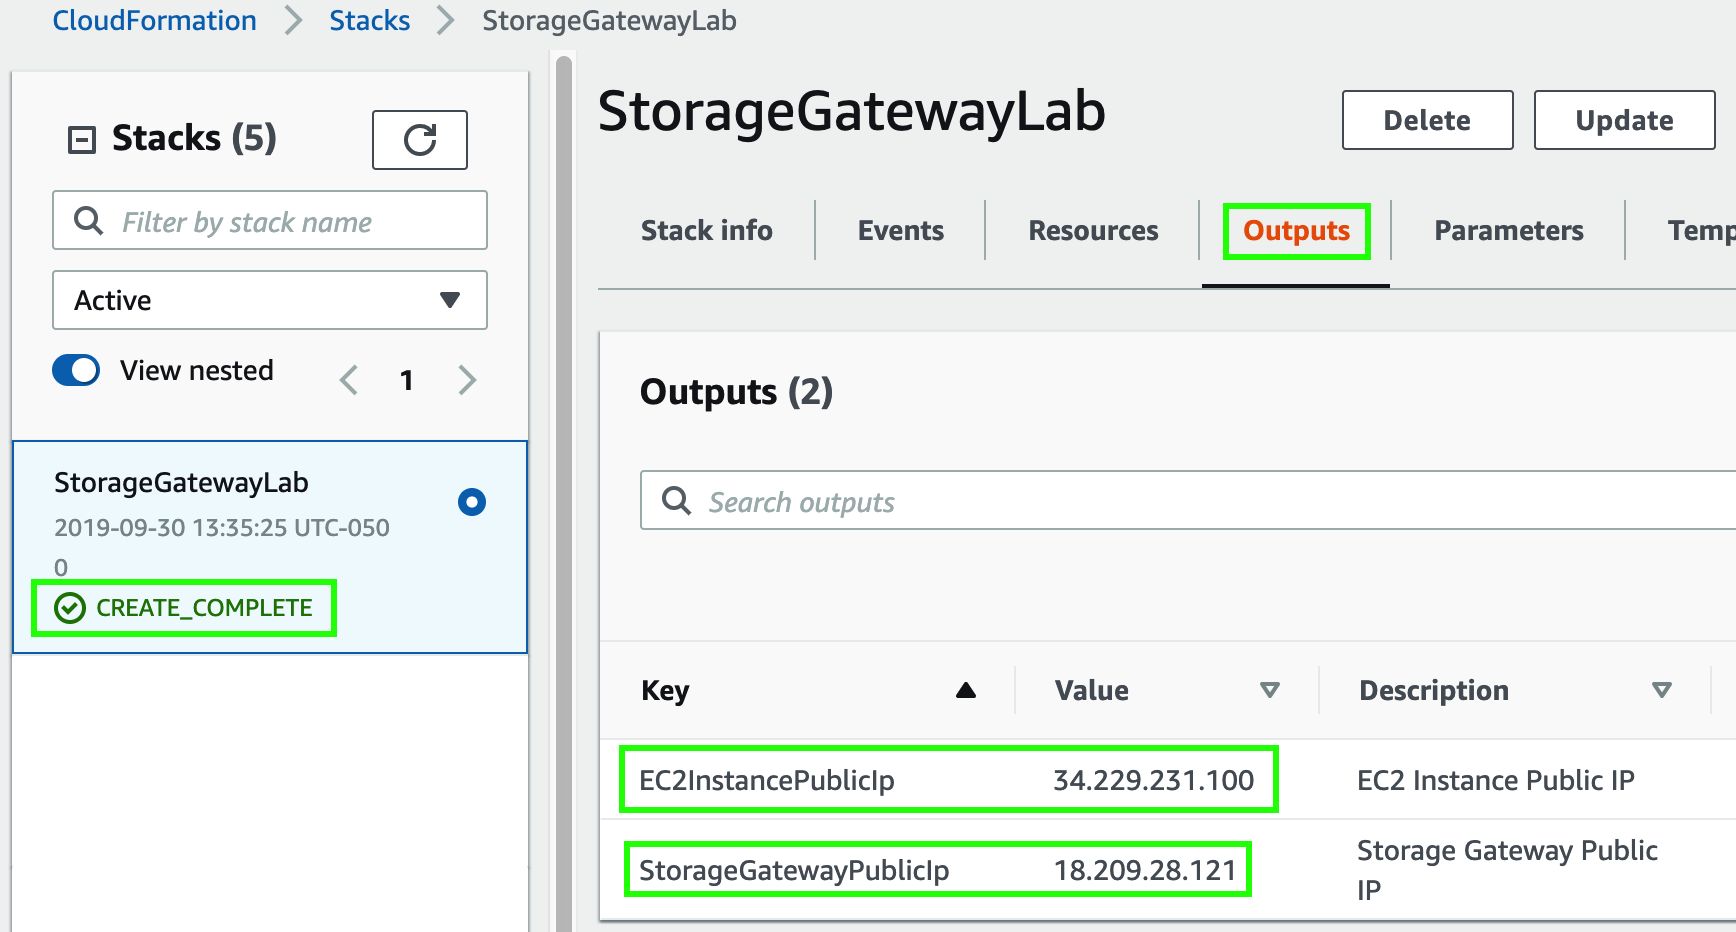
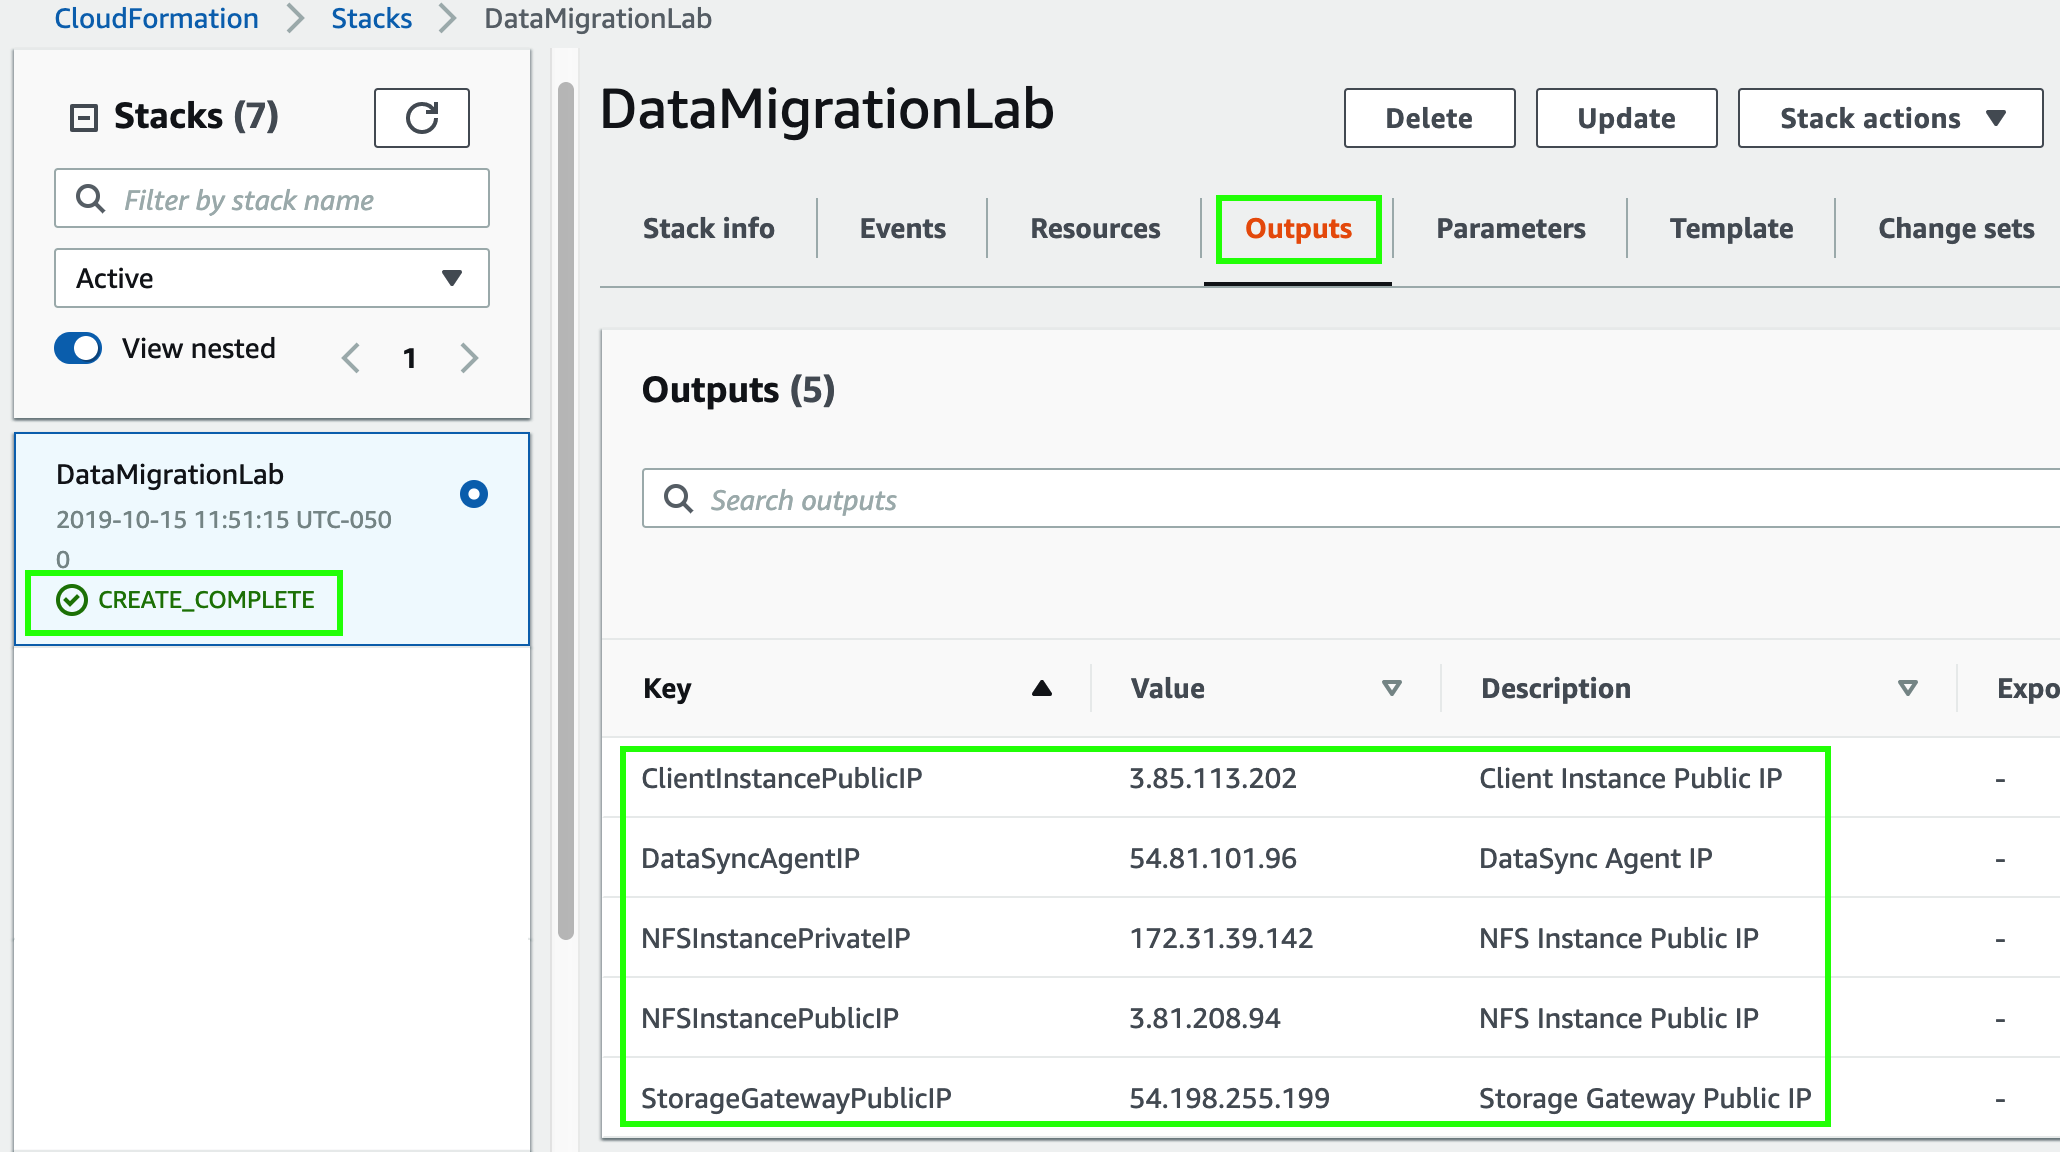
Project

diff --git a/docs/setup.md b/docs/setup.md
@@ -7,7 +7,7 @@ Lo primero que debe hacer es crear un key pair. Este key pair le permitirá acce
 
 ![Create Key Pair](images/keypair.png)
 
-6. En el campo de **_Key pair name_** ingrese un nombre para su key pair (ejemplo: **_sgw_**).
+6. En el campo de **_Key pair name_** ingrese un nombre para su key pair (ejemplo: **_dm-lab_**).
 7. Haga click en **_Create_** y guarde el archivo que se va a descargar.
 
 A continuación, va a desplegar una plantilla de CloudFormation. Esta plantilla deplegará una instancia de Linux Amazon 2 con su grupo de seguridad correspondiente con el puerto 22 habilitado (ssh). En esta instancia usted montará un file share que creará utilizando el servicio de Storage Gateway. Esta plantilla también desplegará una segunda instancia de EC2, que es la que usted configurará como Storage gateway, y creará el grupo de seguridad necesario con los servicios de HTTP, NFS y SMB habilitados.
@@ -17,16 +17,25 @@ A continuación, va a desplegar una plantilla de CloudFormation. Esta plantilla 
 10.	En el campo de **_Amazon S3 URL_** ingrese la siguiente URL: 
 
 ```
-http://storage-gateway.oldschool.cloud/sgw-lab.yaml
+http://data-migration.oldschool.cloud/data-migration-lab.yaml
 ```
 
 11.	Haga click en **_Next_**.
-12.	En el campo de **_Stack name_** escriba **_StorageGatewayLab_**.
-13.	En el menú desplegable de **_KeyPair_** bajo la sección de **_Parameters_** elija el key pair que creó anteriormente (**_sgw_**).
+12.	En el campo de **_Stack name_** escriba **_DataMigrationLab_**.
+13.	En el menú desplegable de **_KeyPair_** bajo la sección de **_Parameters_** elija el key pair que creó anteriormente (**_dm-lab_**).
 14.	Haga click en **_Next_**.
 14.	En la siguiente pantalla haga click de nuevo en **_Next_**.
 16.	En la siguiente pantalla haga click en **_Create stack_**.
 17.	Espere unos minutos a que el status de lanzamiento de la plantilla indique **_CREATE_COMPLETE_**.
-18.	Una vez que el despliegue de la plantilla haya sido completado, haga click en la sección de **_Outputs_** y copie los valores **_EC2InstancePublicIp_** y **_StorageGatewayPublicIp_**. Guarde estas IPs en un editor de texto ya que las utilizará más adelante.
+18.	Una vez que el despliegue de la plantilla haya sido completado, haga click en la sección de **_Outputs_** y copie los parámetros que ahí se encuentran (**_ClientInstancePublicIP, DataSyncAgentIP, etc._**) junto con sus valores (las direcciones IPs) y guárdelos en un editor de texto ya que las utilizará más adelante.
 
 ![Outputs](images/outputs.png)
+
+A continuación, debe crear un bucket de S3 que nos servirá para almacenar la información que migremos utilizando los Servicios de DataSync y Storage Gateway.
+
+19. Cambie a la región de **_Ohio_** en la esquina superior derecha de la consola de AWS.
+20. Haga click en **_Services_** y posteriormente seleccione el servicio de [**_S3_**](https://s3.console.aws.amazon.com/) el cual se encuentra bajo la categoría de **_Storage_** (**_https://s3.console.aws.amazon.com/_**).
+21. Haga click en **_+ Create bucket_**.
+22. Ingrese un nombre para su bucket en **_Bucket name_** con la siguiente nomenclatura: **_data-migration-lab-su-nombre_** (ejemplo: **_data-migration-lab-mariano-rivera_**).
+23. Haga click en **_Create_**.
+24. Guarde el nombre de su bucket en un editor de texto ya que lo utilizará más tarde.

diff --git a/docs/datasyncagent.md b/docs/datasyncagent.md
@@ -1,0 +1,37 @@
+1. Asegúrese de estar trabajando en la región de **_N. Virgina_**. Esto lo puede verificar en el menú desplegable que se encuentra en la esquina superior derecha de la consola de AWS.
+2. Haga click en **_Services_** y después en [**_DataSync_**](https://console.aws.amazon.com/datasync/) que se encuentra bajo la categoría de **_Migration & Transer_** (**_https://console.aws.amazon.com/datasync/_**).
+3. Haga clck en **_Agents_** en el menú lateral de la izquierda.
+4. Haga click en **_Create agent_**.
+5. En **_Service Endpoints_** seleccione **_Public service endpoints in US East (N. Virginia)_**.
+6. En el campo de **_Agent address_** ingrese la dirección IP de **_DataSyncAgentIP_** que guardó en el editor de texto.
+7. Haga click en **_Get key_**
+8. En el campo de **_Agent name_** ingrese el nombre de su agente (**_DataSync Agent - Lab_**)
+9. Haga click en **_Create agent_**.
+
+Una vez que su agente ha sido creado, debe crear una tarea de migración (task) en donde definirá el origen y destino de los datos que va a migrar.
+
+10. Haga clck en **_Tasks_** en el menú lateral de la izquierda.
+11. Haga click en **_Create task_**.
+12. En **_Location_** type seleccione **_Network File System (NFS)_**.
+13. En **_Agents_** seleccione el agente de DataSync que acaba de crear.
+14. En **_NFS Server_** ingrese la IP de **_NFSInstancePublicIP_** que guardó en el editor de texto.
+15. En **_Mount path_** ingrese la siguiente ruta:
+
+```
+/mnt/nfs
+```
+
+16. Haga click en **_Next_**.
+17. En **_Location type_** seleccione **_Amazon S3 bucket_**.
+18. En **_S3 bucket_** seleccione el bucket que creó anteriormente.
+19. En **_IAM role_** haga click en **_Autogenerate_** para generar un rol que permita a DataSync interactur con su bucket.
+20. Haga click en **_Next_**.
+21. En la siguiente pantalla deje los valores predeterminados y haga click en **_Next_**.
+22. Haga click en **_Create task_**.
+23. Haga clck en **_Tasks_** en el menú lateral de la izquierda. Podrá ver que el status de la tarea es **_Creating_**.
+
+![Creating task](images/taskcreating.png)
+
+24. Espere unos minutos a que el status de la tarea cambie a **_Available_** y proceda al siguiente mód
+
+![Task available](images/taskavailable.png)

diff --git a/docs/fileshare.md b/docs/fileshare.md
@@ -1,14 +1,8 @@
-1. Cambie a la región de **_Ohio_** en la esquina superior derecha de la consola de AWS.
-2. Haga click en **_Services_** y posteriormente seleccione el servicio de [**_S3_**](https://s3.console.aws.amazon.com/) el cual se encuentra bajo la categoría de **_Storage_** (**_https://s3.console.aws.amazon.com/_**).
-3. Haga click en **_+ Create bucket_**.
-4. Ingrese un nombre para su bucket en **_Bucket name_** con la siguiente nomenclatura: **_file-gateway-lab-su-nombre_** (ejemplo: **_file-gateway-lab-mariano-rivera_**).
-5. Haga click en **_Create_**.
-6. Guarde el nombre de su bucket en un editor de texto ya que lo utilizará más tarde.
-7.Haga click en **_Services_** y después en [**_Storage Gateway_**](https://console.aws.amazon.com/storagegateway/) que se encuentra bajo la categoría de **_Storage_** (**_https://console.aws.amazon.com/storagegateway/_**).
+7. Haga click en **_Services_** y después en [**_Storage Gateway_**](https://console.aws.amazon.com/storagegateway/) que se encuentra bajo la categoría de **_Storage_** (**_https://console.aws.amazon.com/storagegateway/_**).
 8. Cambie a la región de **_N. Virginia_** en la esquina superior derecha de la consola de AWS.
-9. . Haga click en **_File Shares_** en el menú lateral del lado izquierdo.
+9. Haga click en **_File Shares_** en el menú lateral del lado izquierdo.
 10. Haga click en **_Create file share_**.
-11. En el campo de **_Amazon S3 bucket name_** ingrese el nombre del bucket de S3 que creó anteriormente.
+11. En el campo de **_Amazon S3 bucket name_** ingrese el nombre del bucket de S3 que creó para este laboratorio.
 12. En el menú desplegable de **_Gateway_** seleccione el Gateway que creó anteriormente.
 13. Haga click en **_Next_**.
 14. En la pantalla de **_Configure how files are stored in Amazon S3_** haga click en **_Next_** (usará los valores predeterminados).

diff --git a/docs/task.md b/docs/task.md
@@ -1,0 +1,27 @@
+Una vez que su agente ha sido creado, debe crear una tarea de migración (task) en donde definirá el origen y destino de los datos que va a migrar.
+
+10. Haga clck en **_Tasks_** en el menú lateral de la izquierda.
+11. Haga click en **_Create task_**.
+12. En **_Location_** type seleccione **_Network File System (NFS)_**.
+13. En **_Agents_** seleccione el agente de DataSync que acaba de crear.
+14. En **_NFS Server_** ingrese la IP de **_NFSInstancePublicIP_** que guardó en el editor de texto.
+15. En **_Mount path_** ingrese la siguiente ruta:
+
+```
+/mnt/nfs
+```
+
+16. Haga click en **_Next_**.
+17. En **_Location type_** seleccione **_Amazon S3 bucket_**.
+18. En **_S3 bucket_** seleccione el bucket que creó anteriormente.
+19. En **_IAM role_** haga click en **_Autogenerate_** para generar un rol que permita a DataSync interactur con su bucket.
+20. Haga click en **_Next_**.
+21. En la siguiente pantalla deje los valores predeterminados y haga click en **_Next_**.
+22. Haga click en **_Create task_**.
+23. Haga clck en **_Tasks_** en el menú lateral de la izquierda. Podrá ver que el status de la tarea es **_Creating_**.
+
+![Creating task](images/taskcreating.png)
+
+24. Espere unos minutos a que el status de la tarea cambie a **_Available_** y proceda al siguiente módulo.
+
+![Task available](images/taskavailable.png)

diff --git a/docs/migration.md b/docs/migration.md
@@ -1,0 +1,15 @@
+25. Seleccione la casilla de su tarea.
+26. Haga click en el menú desplegable de **_Actions_**.
+
+![Start task](images/starttask.png)
+
+27. Haga click en **_Start_**. Podrá ver como el status de su tarea cambió a **_Running_**. Espere unos minutos a que la tarea de migración se ejecute y el status de su tarea cambie de nuevo a **_Available_**.
+
+28. Una vez que el status de su tarea cambie de nuevo a **_Available_** haga click en **_History_** bajo **_Tasks_** en el menú lateal de la izquierda. Aquī podrá corroborar que su tarea de migración se ejecutó satisfactoriamente.
+
+![Task history](images/taskhistory.png)
+
+29. Haga click en **_Services_** y posteriormente seleccione el servicio de [**_S3_**](https://s3.console.aws.amazon.com/) el cual se encuentra bajo la categoría de **_Storage_** (**_https://s3.console.aws.amazon.com/_**).
+30. Haga click en el bucket que creó para este laboratorio. Podrá corroborar que los datos se migraron satisfactoriamente, verá algo así:
+
+![Data migrated](images/datamigrated.png)
